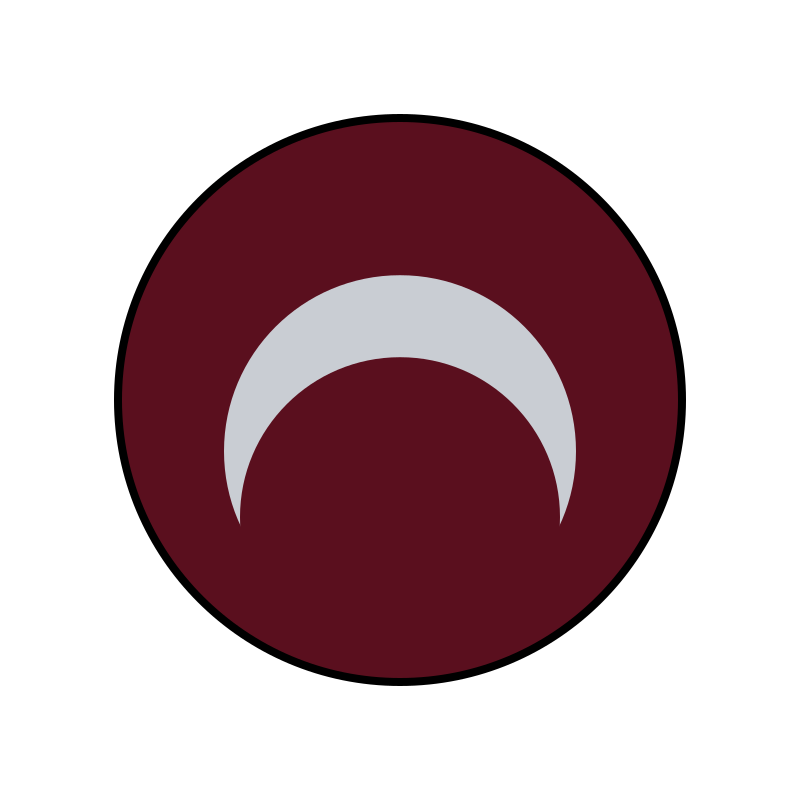
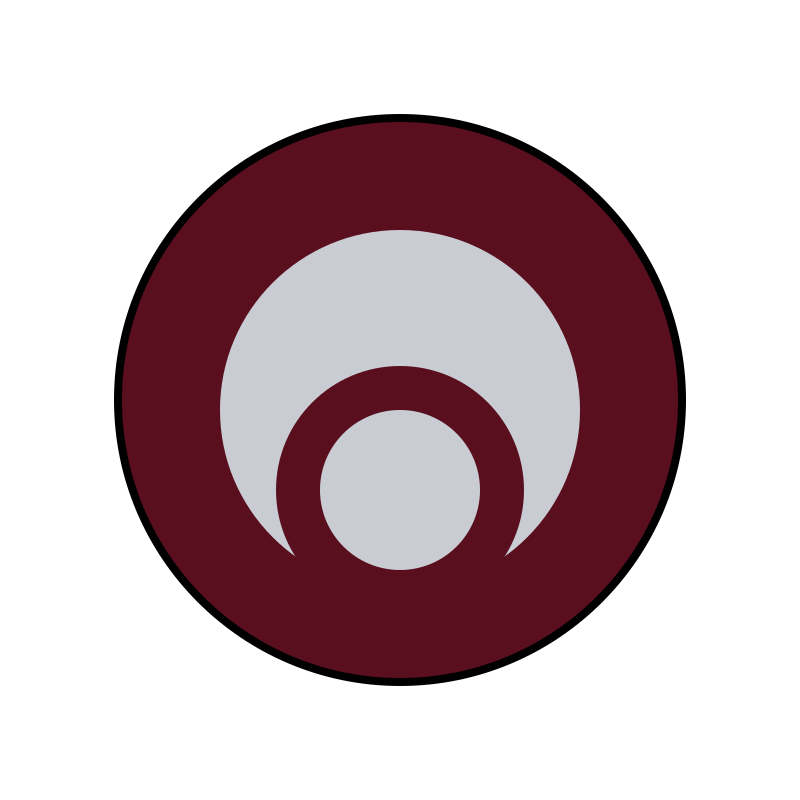
After Hours: new House Maulana crest, the crescent over the pool
The crest becomes a full silver crescent, horns down, arching over a
smaller full moon, with a ring of wine between them, centred in the
wine-red circle. One silver light runs across both pieces and they rise
together on load. Updated in the Crest component, the public and master
SVGs, the preview PNG, the share image and its alt text, and the Moonwake
design doc.

Changed region(s): [[0.25, 0.2812, 0.75, 0.5625], [0.375, 0.5, 0.625, 0.7188], [0.2812, 0.4375, 0.7188, 0.6875]]

diff --git a/src/components/offline/Crest.tsx b/src/components/offline/Crest.tsx
@@ -1,6 +1,7 @@
 /**
- * The House Maulana crest: a wine-red circle with a thin black border and a
- * silver crescent, horns down, centred (flat master: docs/offline/assets/moonwake/crest.svg).
+ * The House Maulana crest: a wine-red circle with a thin black border and the
+ * crescent over the pool: a silver crescent, horns down, arching over a full
+ * silver moon, centred (flat master: docs/offline/assets/moonwake/crest.svg).
  * On the page it sits in the scene rather than on it: the wine field is slightly
  * translucent so the mist shows through, it darkens a little towards its edge,
  * and a fine grain gives it a painted texture. With `rise`, the moon rises into place on load (CSS,
@@ -18,7 +19,7 @@ export function Crest({ rise = false, className = "", title }: { rise?: boolean;
       <defs>
         <mask id="ah-crest-cut" maskUnits="userSpaceOnUse">
           <rect width="400" height="400" fill="#fff" />
-          <circle cx="200" cy="203" r="80" fill="#000" />
+          <circle cx="200" cy="245" r="62" fill="#000" />
         </mask>
         <clipPath id="ah-crest-disc">
           <circle cx="200" cy="200" r="139" />
@@ -28,8 +29,8 @@ export function Crest({ rise = false, className = "", title }: { rise?: boolean;
           <stop offset="0" stopColor="#661425" stopOpacity="0.86" />
           <stop offset="1" stopColor="#3e0a15" stopOpacity="0.9" />
         </radialGradient>
-        {/* Moon silver: a little brighter on its upper curve. */}
-        <linearGradient id="ah-crest-moon" x1="0" y1="0" x2="0" y2="1">
+        {/* Moon silver, one light across the whole mark: brighter on the crescent's upper curve. */}
+        <linearGradient id="ah-crest-moon" gradientUnits="userSpaceOnUse" x1="0" y1="115" x2="0" y2="285">
           <stop offset="0" stopColor="#e9ebef" />
           <stop offset="1" stopColor="#bfc3cb" />
         </linearGradient>
@@ -44,11 +45,10 @@ export function Crest({ rise = false, className = "", title }: { rise?: boolean;
       <g clipPath="url(#ah-crest-disc)">
         {/* Painted grain over the field */}
         <rect className="ah-crest-field" x="59" y="59" width="282" height="282" fill="#000" filter="url(#ah-crest-grain)" />
-        {/* The moon, which rises inside the circle on load */}
+        {/* The crescent over the pool, which rises inside the circle on load */}
         <g className="ah-crest-moon">
-          <g transform="translate(0 55.6)">
-            <circle cx="200" cy="170" r="88" fill="url(#ah-crest-moon)" mask="url(#ah-crest-cut)" />
-          </g>
+          <circle cx="200" cy="205" r="90" fill="url(#ah-crest-moon)" mask="url(#ah-crest-cut)" />
+          <circle cx="200" cy="245" r="40" fill="url(#ah-crest-moon)" />
         </g>
       </g>
     </svg>

diff --git a/src/app/offline/layout.tsx b/src/app/offline/layout.tsx
@@ -29,7 +29,7 @@ export const metadata: Metadata = {
   openGraph: {
     title: "House Maulana | After Hours",
     description: "The other side of Gilang Maulana: games, music, films and anime.",
-    images: [{ url: "/offline/og.png", width: 1200, height: 630, alt: "The House Maulana crest: a silver crescent on a wine-red circle" }],
+    images: [{ url: "/offline/og.png", width: 1200, height: 630, alt: "The House Maulana crest: a silver crescent arching over a full moon on a wine-red circle" }],
   },
 };
 

diff --git a/docs/offline/moonwake.md b/docs/offline/moonwake.md
@@ -10,7 +10,7 @@ Where things live: crest `src/components/offline/Crest.tsx` (source `assets/moon
 |---|---|
 | World | **Moonwake**, a coastal cliff-city of House Maulana in Runeterra, where the spirit world and arcane craft meet. Fan work under Riot's fan content policy: Riot's region names are used, Riot's art, logos and fonts are not |
 | Mood | Quiet, deep, held. Candle and moonlight, mist off the water, a slow heartbeat underneath |
-| Crest | Wine-red circle, thin black border, silver crescent with horns down, centred: [assets/moonwake/crest.svg](assets/moonwake/crest.svg) |
+| Crest | Wine-red circle, thin black border, and the crescent over the pool: a silver crescent with horns down arching over a full silver moon, centred: [assets/moonwake/crest.svg](assets/moonwake/crest.svg) |
 | Motto | *Quiet, eternal, and ours.* |
 | Fonts | **Arcane Nine** (Chequered Ink, supplied by Gilang; check its licence) for the wordmark and titles, **Geist Mono** (SIL OFL) for everything else on the saga pages. Cinzel stays loaded only as the fallback while Arcane Nine loads |
 | Ranks | Albion's shared twelve, then Moonwake's own nine (section 4) |
